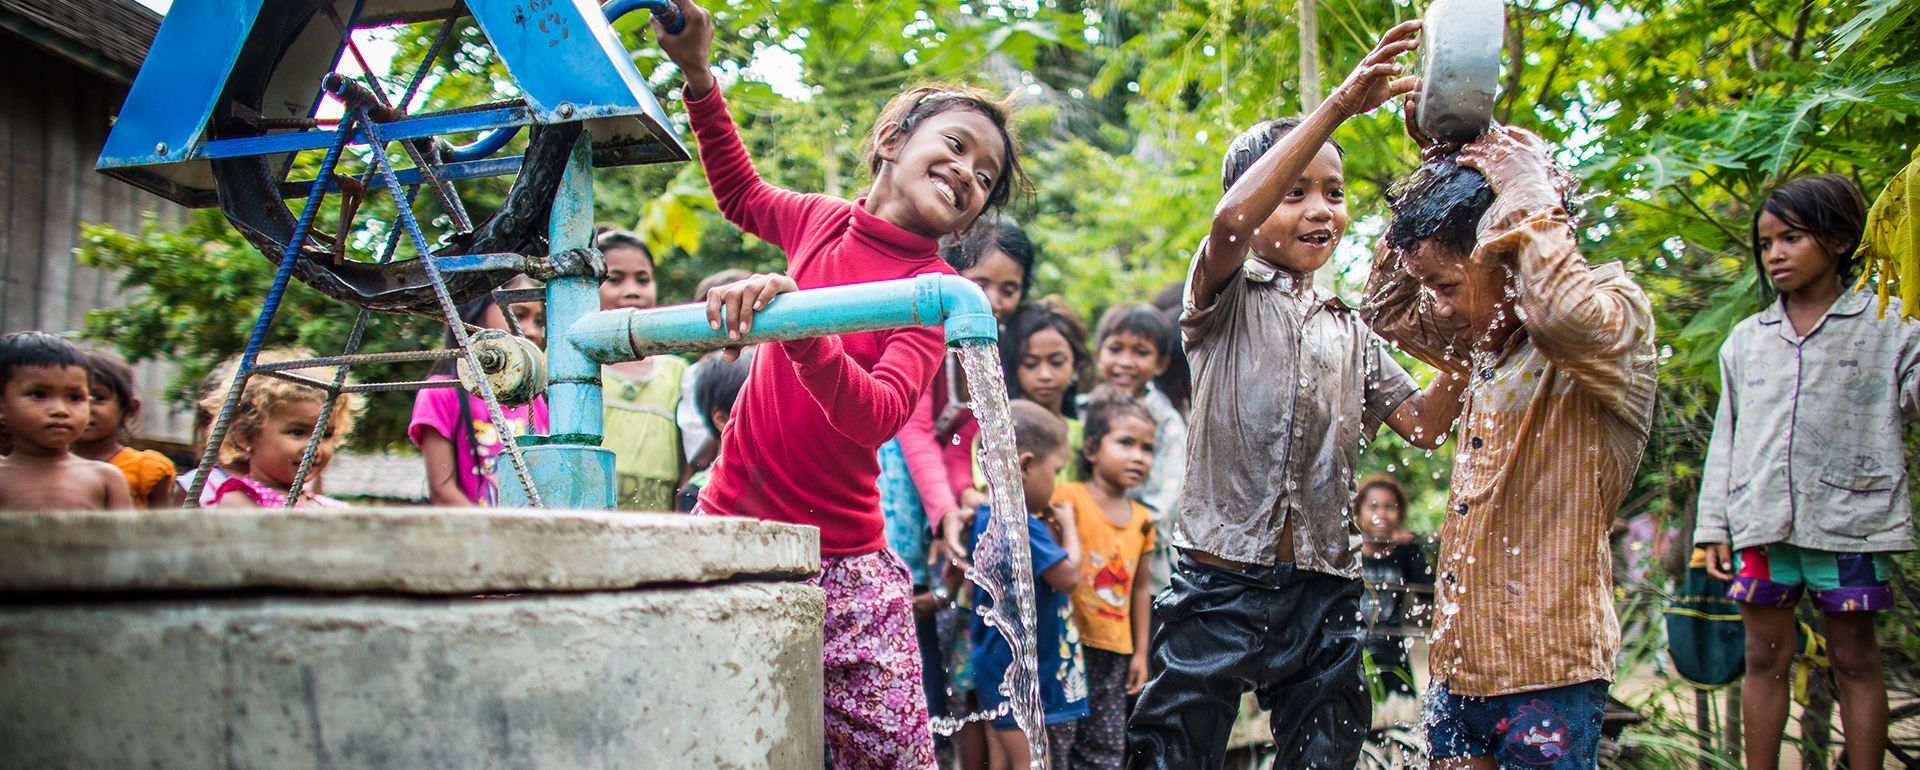
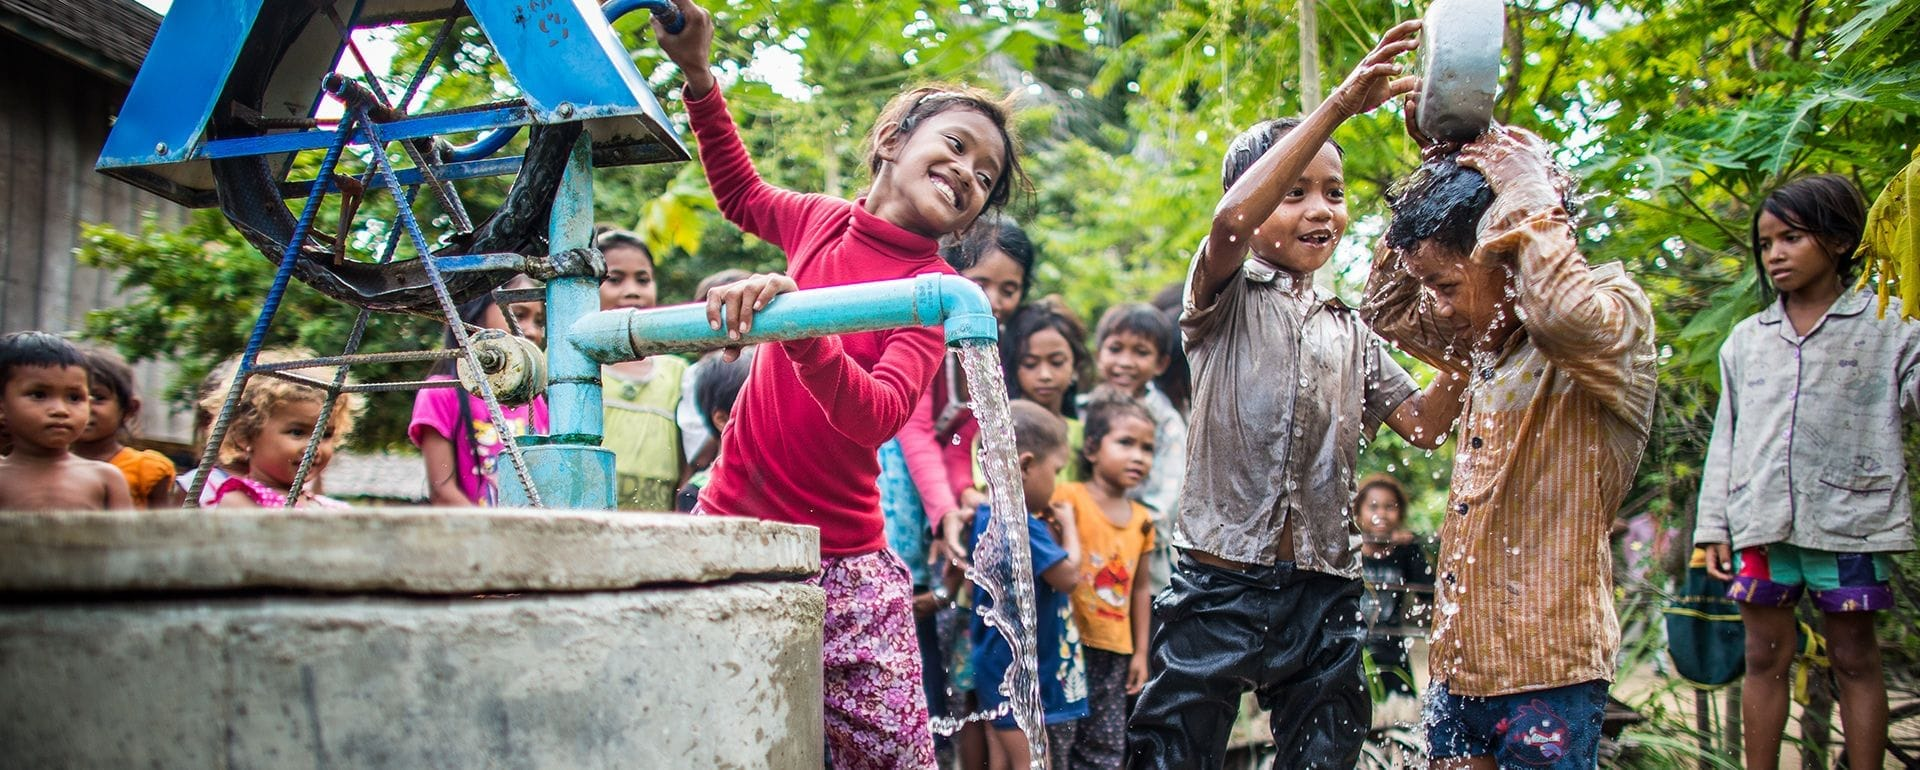
Image optimization and bug fixes.

diff --git a/index.html b/index.html
@@ -34,7 +34,7 @@
     <div class="menu">
       <a class="about" href="/about">About</a>
       <a class="faqs" href="/faqs">FAQs</a>
-      <a class="apply-now" href="/https://www.f6s.com/vaticanaccelerator2017/apply">Apply Now</a>
+      <a class="apply-now" href="https://www.f6s.com/vaticanaccelerator2017/apply">Apply Now</a>
       <div class="social">
         <a href="https://twitter.com/VAccelerator17" target="_blank"><i class="fa fa-twitter" aria-hidden="true"></i></a>
         <a href="https://www.facebook.com/LaudatoSiChallenge/" target="_blank"><i class="fa fa-facebook" aria-hidden="true"></i></a>
@@ -58,7 +58,7 @@
               Inspired by <span>Pope Francis</span> to care for our common home
             </h5>
             <div class="direction-desktop">Scroll down to learn more <i class="fa fa-angle-double-down" aria-hidden="true"></i></div>
-            <div class="direction-mobile">Swipe right to learn more <i class="fa fa-angle-double-right" aria-hidden="true"></i></div>
+            <div class="direction-mobile">Scroll down to learn more <i class="fa fa-angle-double-right" aria-hidden="true"></i></div>
           </div>
         </div>
       </section>
